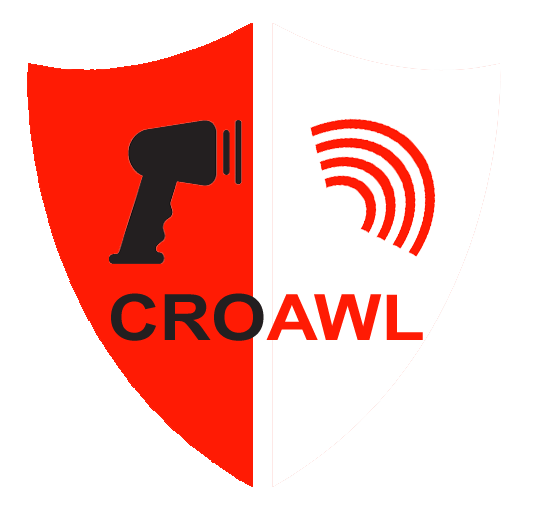
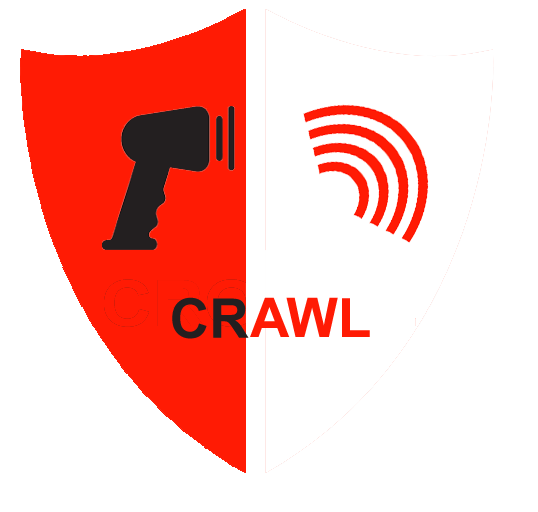
06-02-2023

diff --git a/identtificationInner.html b/identtificationInner.html
@@ -50,9 +50,7 @@
   <!-- Boxes-->
   <section id="boxes" class="px-2 py-2 ">
     <div class="container mt-5">
-       
       <div class="row mb-5">
-
         <div class="col-md-4 mb-5">
           <a href="randomInventory.html">
             <div class="card bg-primary">
@@ -65,16 +63,14 @@
 
         <div class="col-md-4">
           <a href="childcube.html">
-
           <div class="card bg-success">
             <div class="card-body text-center text-white">
-              <b>Chile Cube</b>
+              <b>Child Cube</b>
             </div>
           </div>
           </a>
         </div>
         </div>
-
       </div>
     </div>
   </section>

diff --git a/inventory.html b/inventory.html
@@ -70,13 +70,12 @@
     <div class="row py-3 px-3 " id="matchTable">
       <div class="col-md-3 shadow-lg p-3 mb-5 bg-white rounded">
         <h5 class=" text-success" >Match : <span id="matchdata"></span></h5>
-            <h5 class=" text-danger"  >Miss Match: <span id="notmatchdnata"></span></h5>
+            <h5 class=" text-danger"  >MisMatch: <span id="notmatchdnata"></span></h5>
             <h5 class=" text-warning">Out of  Box :  
               <ul class="list-group" id="invNotMatch">
 
               </ul>
               
-         
       </div>
     </div> 
 

diff --git a/randomInventory.html b/randomInventory.html
@@ -19,7 +19,7 @@
     <div class="container">
       <a href="#" class="navbar-brand">
         <!-- <img src="img/mlogo.png" width="50" height="50" alt=""> -->
-        <h3 class="d-inline align-middle">CROAWL</h3>
+        <h3 class="d-inline align-middle">CRAWL</h3>
       </a>
       <button class="navbar-toggler" data-toggle="collapse" data-target="#navbarCollapse">
         <span class="navbar-toggler-icon"></span>

diff --git a/index.html b/index.html
@@ -61,7 +61,6 @@
              <b> Identification</b>
 
             </div>
-          </div>
           </a>
         </div>
 
